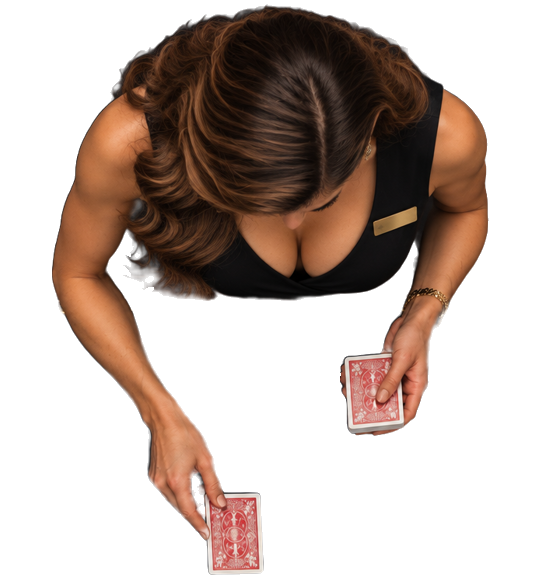
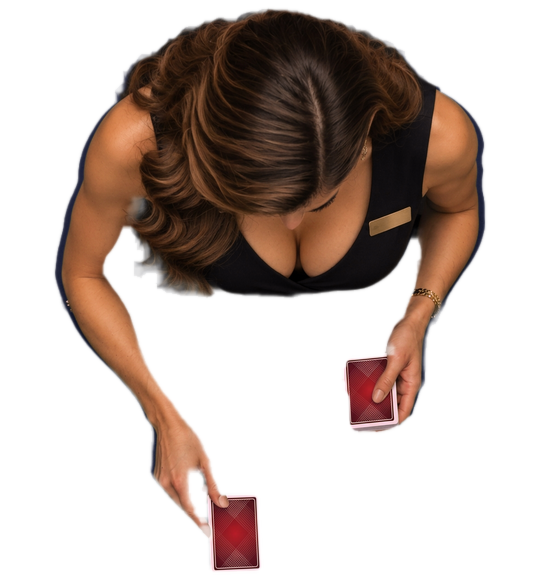
Kurpiye: elindeki kartlar masa kartlarıyla aynı, dağıtırken sallanma kalktı

Changed region(s): [[0.0911, 0.0, 0.8804, 0.9863], [0.5464, 0.1233, 0.6071, 0.2774], [0.5161, 0.4007, 0.5464, 0.4623]]

diff --git a/css/stil.css b/css/stil.css
@@ -798,8 +798,6 @@ button.dk-durum { cursor: pointer; font: inherit; font-size: 11px; }
 .kr-tepe img:not([src]) { visibility: hidden; }
 .kr-girinti { position: absolute; left: 50%; top: calc(var(--kt-derin) * -1); width: calc(var(--kt-gen) * .88); height: calc(var(--kt-derin) * 2); transform: translateX(-50%); border-radius: 50%;
   background: radial-gradient(ellipse at 50% 35%, #1e1813, #07080a 78%); box-shadow: 0 0 0 9px var(--ahsap, #5a3418), 0 0 0 12px #0009, 0 8px 18px #000a, inset 0 -12px 26px #000d; }
-.kr-tepe[data-ruh="dagit"] img { animation: kt-dagit .8s ease-in-out infinite; }
-@keyframes kt-dagit { 50% { transform: translateY(6px); } }
 .kr-tepe.kr-cikis img { opacity: 0; transform: translateY(-50px); }
 .kr-tepe.kr-giris img { animation: kt-gir .7s ease-out; }
 @keyframes kt-gir { from { opacity: 0; transform: translateY(-50px); } }

diff --git a/sw.js b/sw.js
@@ -1,6 +1,6 @@
 // Offline önbellek: ilk açılışta tüm dosyalar cihaza kaydedilir.
 // Dosya değişince SURUM artırılır.
-const SURUM = 'novo-online-v32';
+const SURUM = 'novo-online-v33';
 const DOSYALAR = [
   './', 'index.html', 'css/stil.css', 'manifest.webmanifest',
   'js/uygulama.js', 'js/arayuz.js', 'js/masa.js', 'js/oyuncu.js', 'js/motor.js', 'js/kart.js', 'js/ses.js', 'js/fis.js', 'js/novo.js', 'js/novo_masa.js', 'js/krupiye.js', 'js/havai.js', 'js/konus.js', 'js/online.js', 'js/ultimate.js', 'js/ultimate_masa.js',
